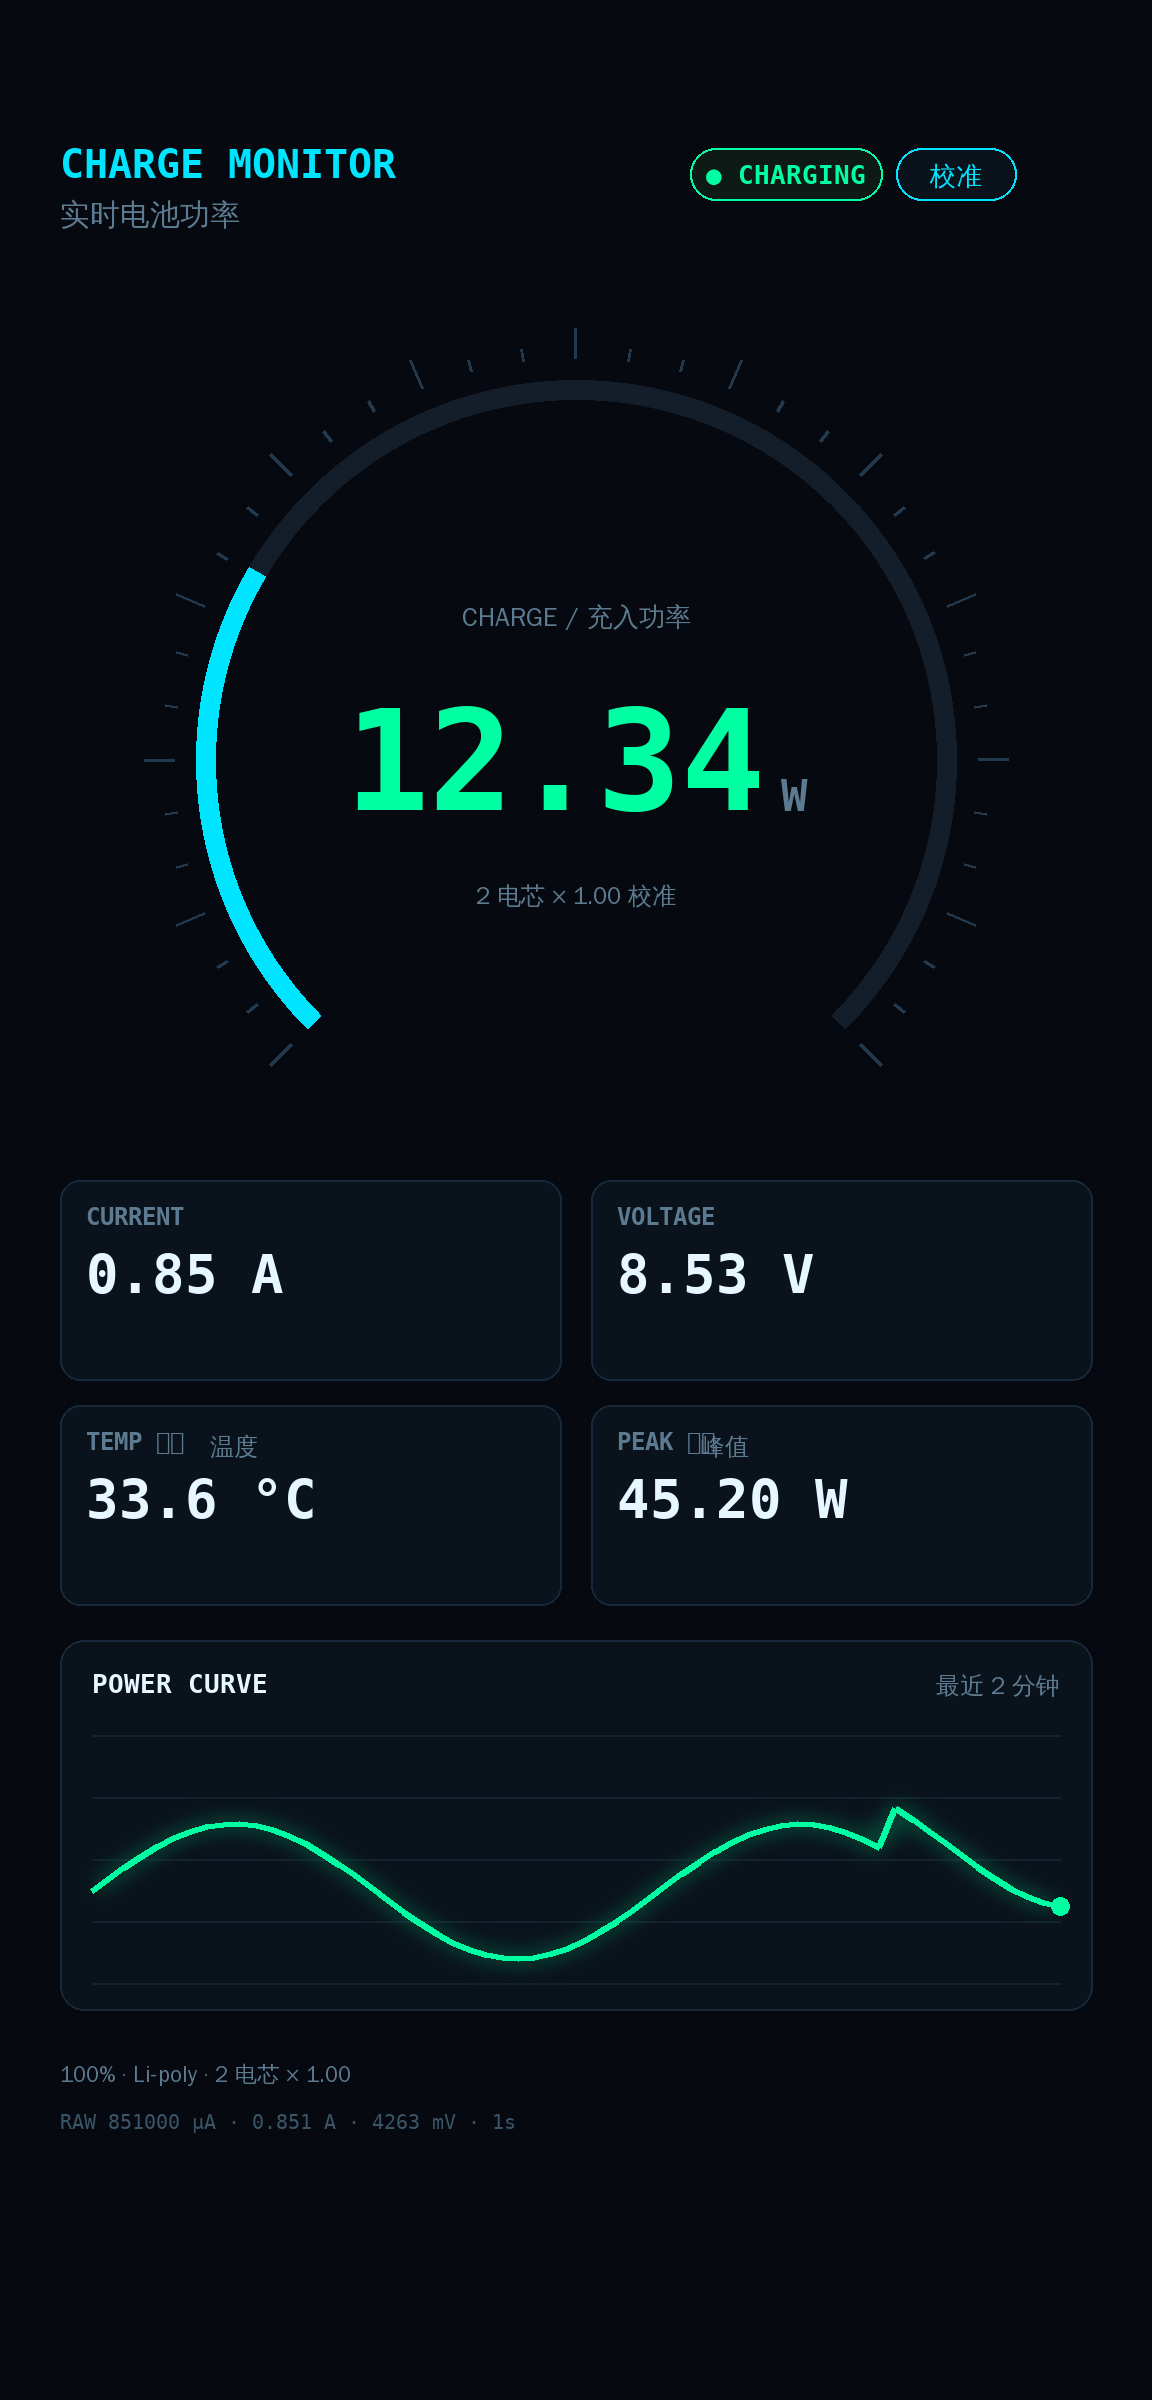
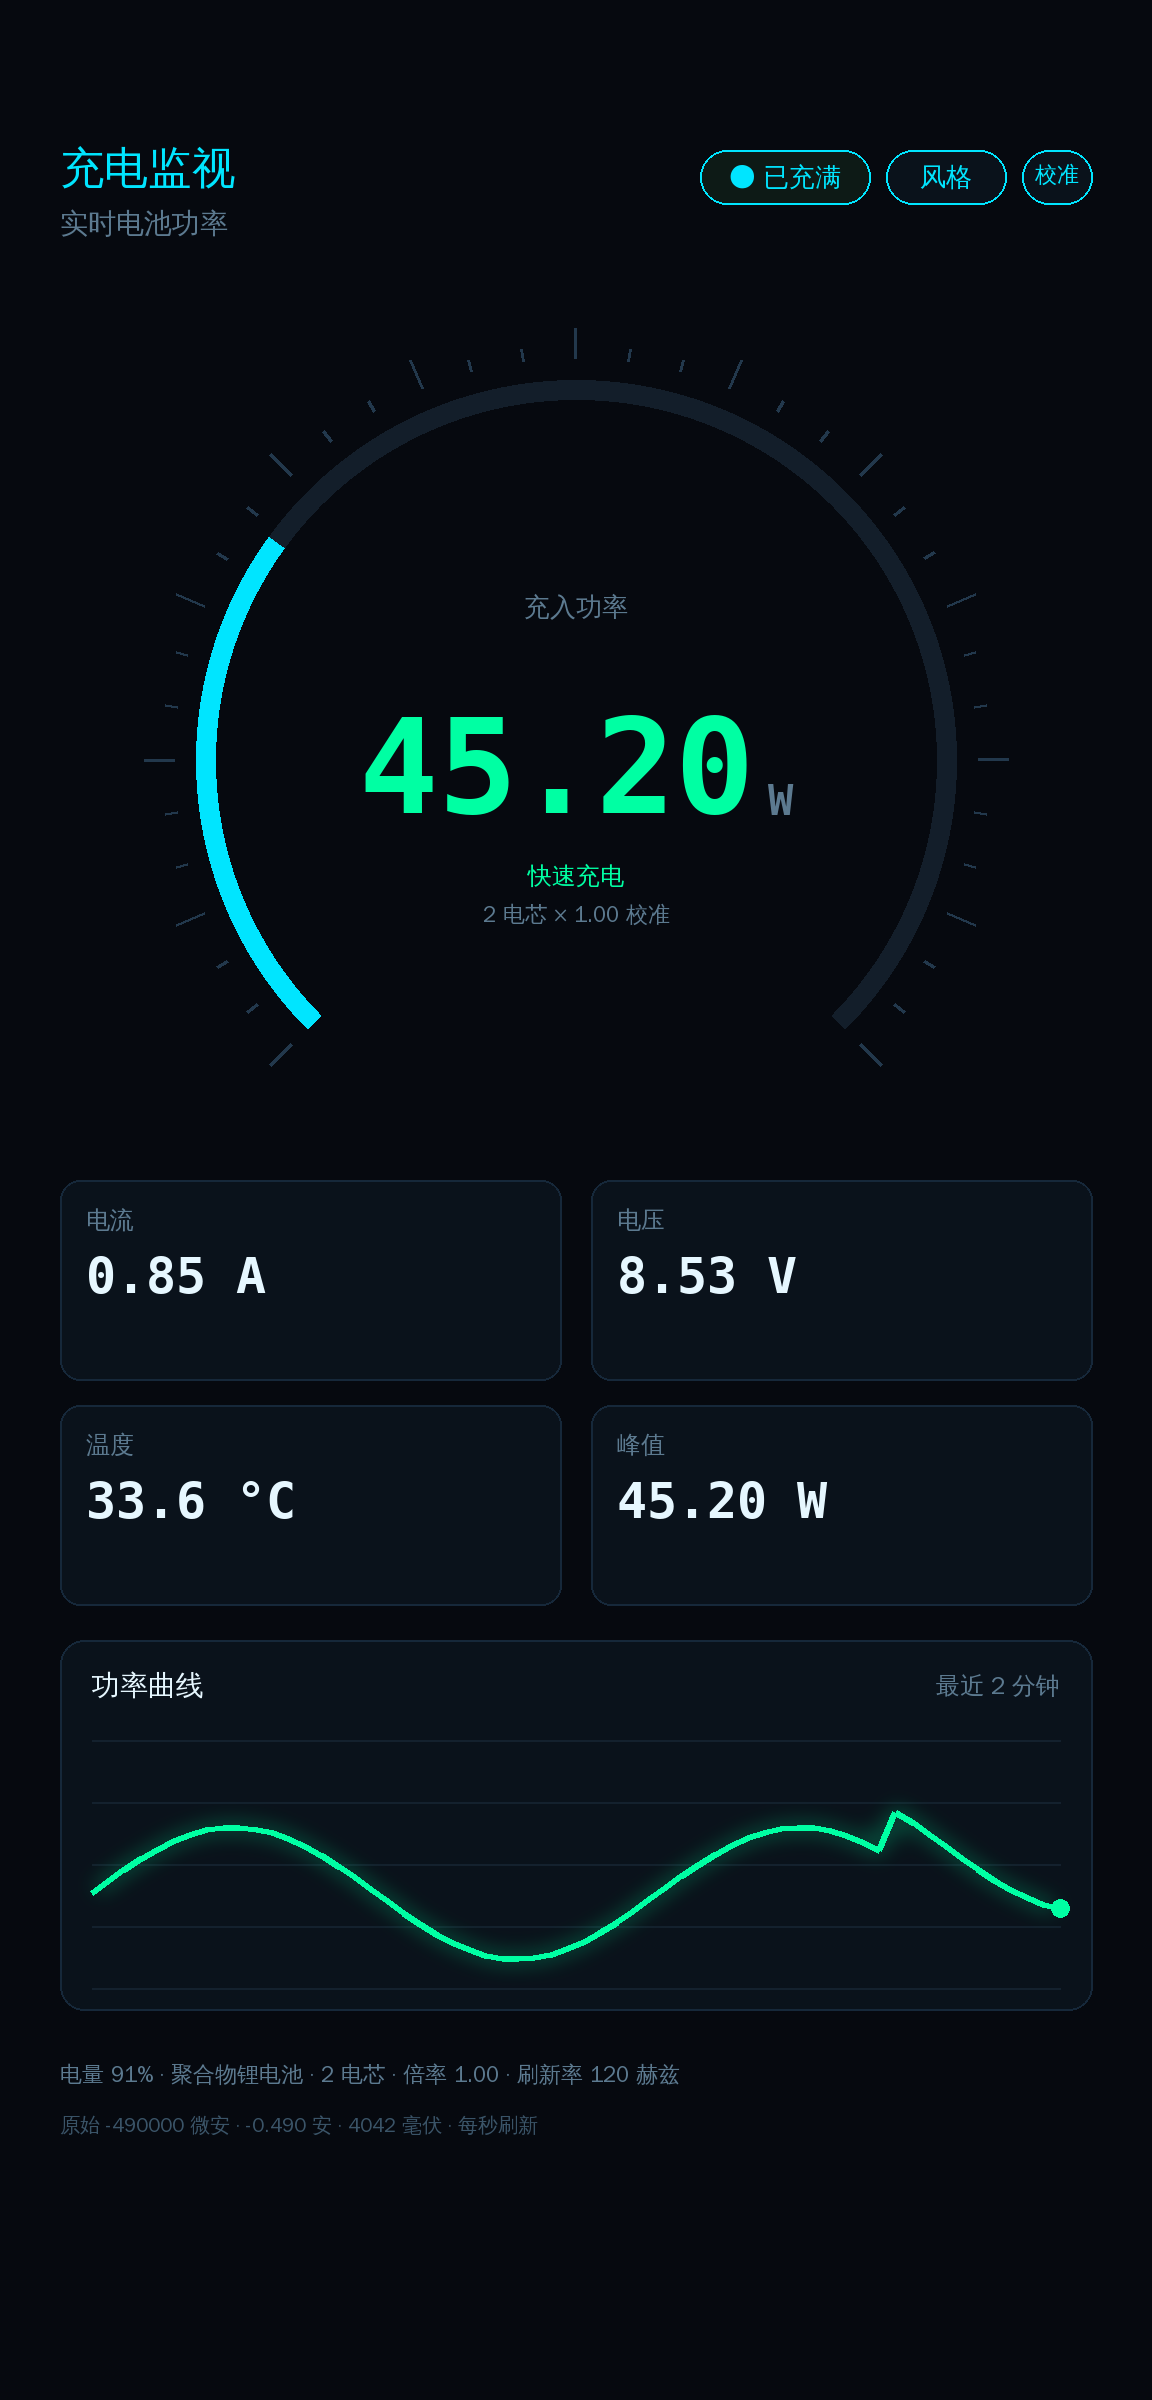
feat(5.1): 界面全中文化，移除帧率显示

diff --git a/src/com/dsh/chargemeter/MainActivity.java b/src/com/dsh/chargemeter/MainActivity.java
@@ -13,7 +13,6 @@ import android.os.BatteryManager;
 import android.os.Build;
 import android.os.Bundle;
 import android.os.Handler;
-import android.os.SystemClock;
 import android.os.Looper;
 import android.text.InputType;
 import android.text.SpannableString;
@@ -22,7 +21,6 @@ import android.text.style.AbsoluteSizeSpan;
 import android.text.style.ForegroundColorSpan;
 import android.text.style.StyleSpan;
 import android.util.TypedValue;
-import android.view.Choreographer;
 import android.view.Display;
 import android.view.Gravity;
 import android.view.View;
@@ -51,9 +49,9 @@ public class MainActivity extends Activity {
     }
 
     static final Theme[] THEMES = {
-            new Theme("HUD 青（科幻）", 0xFF06090F, 0xFF0A121B, 0xFF16283A,
+            new Theme("科幻青", 0xFF06090F, 0xFF0A121B, 0xFF16283A,
                     0xFFE6F7FF, 0xFF5C7A90, 0xFF00E5FF, 0xFF00FFA3, true),
-            new Theme("极简白（苹果）", 0xFFF2F2F7, 0xFFFFFFFF, 0xFFE5E5EA,
+            new Theme("极简白", 0xFFF2F2F7, 0xFFFFFFFF, 0xFFE5E5EA,
                     0xFF1C1C1E, 0xFF8E8E93, 0xFF007AFF, 0xFF34C759, false),
             new Theme("赛博紫", 0xFF0B0614, 0xFF150B23, 0xFF2A1B3D,
                     0xFFF0E6FF, 0xFF8B7BA5, 0xFFB14CFF, 0xFFFF3D9A, true),
@@ -82,7 +80,6 @@ public class MainActivity extends Activity {
     private TextView rawText;
     private TextView factorText;
     private GaugeView gauge;
-    private TextView fpsText;
     private ChartView chart;
 
     private BatteryManager bm;
@@ -94,11 +91,6 @@ public class MainActivity extends Activity {
     private final Handler handler = new Handler(Looper.getMainLooper());
     private final Map<TextView, String> cardLabels = new HashMap<>();
 
-    private Choreographer choreographer;
-    private Choreographer.FrameCallback fpsCallback;
-    private long fpsWindowStart;
-    private int fpsFrames;
-    private double fpsValue;
     private float screenHz;
 
     private final Runnable ticker = new Runnable() {
@@ -148,10 +140,10 @@ public class MainActivity extends Activity {
         LinearLayout titleBox = new LinearLayout(this);
         titleBox.setOrientation(LinearLayout.VERTICAL);
         TextView title = new TextView(this);
-        title.setText("CHARGE MONITOR");
+        title.setText("充电监视");
         title.setTextColor(th.a1);
         title.setTextSize(13);
-        title.setLetterSpacing(0.28f);
+        title.setLetterSpacing(0.08f);
         title.setTypeface(MONO, Typeface.BOLD);
         titleBox.addView(title);
         TextView subtitle = new TextView(this);
@@ -276,13 +268,13 @@ public class MainActivity extends Activity {
 
         // ===== 指标 =====
         LinearLayout grid1 = row();
-        grid1.addView(card("CURRENT 电流", "--"), weight());
-        grid1.addView(card("VOLTAGE 电压", "--"), weight());
+        grid1.addView(card("电流", "--"), weight());
+        grid1.addView(card("电压", "--"), weight());
         root.addView(grid1);
 
         LinearLayout grid2 = row();
-        grid2.addView(card("TEMP 温度", "--"), weight());
-        grid2.addView(card("PEAK 峰值", "--"), weight());
+        grid2.addView(card("温度", "--"), weight());
+        grid2.addView(card("峰值", "--"), weight());
         root.addView(grid2);
 
         // ===== 曲线 =====
@@ -299,20 +291,18 @@ public class MainActivity extends Activity {
         chartHead.setOrientation(LinearLayout.HORIZONTAL);
         chartHead.setGravity(Gravity.CENTER_VERTICAL);
         TextView chartTitle = new TextView(this);
-        chartTitle.setText("POWER CURVE · 2MIN");
+        chartTitle.setText("功率曲线");
         chartTitle.setTextColor(th.text);
         chartTitle.setTextSize(11);
-        chartTitle.setLetterSpacing(0.2f);
+        chartTitle.setLetterSpacing(0.04f);
         chartTitle.setTypeface(MONO, Typeface.BOLD);
         chartHead.addView(chartTitle, new LinearLayout.LayoutParams(0,
                 ViewGroup.LayoutParams.WRAP_CONTENT, 1f));
-        fpsText = new TextView(this);
-        fpsText.setText("-- FPS");
-        fpsText.setTextColor(th.a2);
-        fpsText.setTextSize(11);
-        fpsText.setTypeface(MONO, Typeface.BOLD);
-        fpsText.setLetterSpacing(0.06f);
-        chartHead.addView(fpsText);
+        TextView chartHint = new TextView(this);
+        chartHint.setText("最近 2 分钟");
+        chartHint.setTextColor(th.dim);
+        chartHint.setTextSize(10);
+        chartHead.addView(chartHint);
         chartCard.addView(chartHead);
 
         chart = new ChartView(this);
@@ -348,25 +338,6 @@ public class MainActivity extends Activity {
         } catch (Exception ignored) {
         }
 
-        choreographer = Choreographer.getInstance();
-        fpsCallback = new Choreographer.FrameCallback() {
-            @Override
-            public void doFrame(long frameTimeNanos) {
-                fpsFrames++;
-                long now = SystemClock.uptimeMillis();
-                if (fpsWindowStart == 0) fpsWindowStart = now;
-                long span = now - fpsWindowStart;
-                if (span >= 1000) {
-                    fpsValue = fpsFrames * 1000.0 / span;
-                    fpsFrames = 0;
-                    fpsWindowStart = now;
-                    if (fpsText != null) {
-                        fpsText.setText(String.format("%.0f FPS", fpsValue));
-                    }
-                }
-                choreographer.postFrameCallback(this);
-            }
-        };
     }
 
     private void pickTheme() {
@@ -454,6 +425,16 @@ public class MainActivity extends Activity {
                 .show();
     }
 
+    private String techText(String tech) {
+        if (tech == null || tech.isEmpty()) return "";
+        if (tech.equalsIgnoreCase("Li-ion")) return "锂离子电池";
+        if (tech.equalsIgnoreCase("Li-poly")) return "聚合物锂电池";
+        if (tech.equalsIgnoreCase("LiFe")) return "磷酸铁锂";
+        if (tech.equalsIgnoreCase("NiMH")) return "镍氢电池";
+        if (tech.equalsIgnoreCase("NiCd")) return "镍镉电池";
+        return tech;
+    }
+
     private int recommendedCells() {
         String b = (Build.BRAND + " " + Build.MANUFACTURER + " " + Build.MODEL).toLowerCase();
         if (b.contains("xiaomi") || b.contains("redmi") || b.contains("poco")
@@ -505,7 +486,7 @@ public class MainActivity extends Activity {
         String full = label + "\n" + value;
         SpannableString ss = new SpannableString(full);
         int cut = label.length();
-        ss.setSpan(new AbsoluteSizeSpan(9, true), 0, cut, Spanned.SPAN_EXCLUSIVE_EXCLUSIVE);
+        ss.setSpan(new AbsoluteSizeSpan(10, true), 0, cut, Spanned.SPAN_EXCLUSIVE_EXCLUSIVE);
         ss.setSpan(new ForegroundColorSpan(th.dim), 0, cut, Spanned.SPAN_EXCLUSIVE_EXCLUSIVE);
         ss.setSpan(new StyleSpan(Typeface.BOLD), 0, cut, Spanned.SPAN_EXCLUSIVE_EXCLUSIVE);
         ss.setSpan(new AbsoluteSizeSpan(19, true), cut + 1, full.length(),
@@ -525,20 +506,12 @@ public class MainActivity extends Activity {
     protected void onResume() {
         super.onResume();
         handler.post(ticker);
-        if (choreographer != null && fpsCallback != null) {
-            fpsWindowStart = 0;
-            fpsFrames = 0;
-            choreographer.postFrameCallback(fpsCallback);
-        }
     }
 
     @Override
     protected void onPause() {
         super.onPause();
         handler.removeCallbacks(ticker);
-        if (choreographer != null && fpsCallback != null) {
-            choreographer.removeFrameCallback(fpsCallback);
-        }
     }
 
     private void tick() {
@@ -582,7 +555,7 @@ public class MainActivity extends Activity {
         }
         powerUnit.setTextColor(th.dim);
         if (powerCaption != null) {
-            powerCaption.setText(feeding ? "CHARGE / 充入功率" : "DISCHARGE / 放电功率");
+            powerCaption.setText(feeding ? "充入功率" : "放电功率");
         }
 
         updateCard(currentText, String.format("%.2f A", amps));
@@ -598,29 +571,29 @@ public class MainActivity extends Activity {
         gauge.setRatio(valid ? (float) (watts / gaugeMax) : 0f);
         chart.push(feeding && valid ? (float) watts : 0f);
 
-        levelText.setText((level >= 0 ? level + "%" : "--")
-                + (tech == null || tech.isEmpty() ? "" : " · " + tech)
-                + String.format(" · %d 电芯 × %.2f", cellCount, ratio)
-                + (screenHz > 0 ? String.format(" · %.0f Hz", screenHz) : ""));
+        levelText.setText("电量 " + (level >= 0 ? level + "%" : "--")
+                + (techText(tech).isEmpty() ? "" : " · " + techText(tech))
+                + String.format(" · %d 电芯 · 倍率 %.2f", cellCount, ratio)
+                + (screenHz > 0 ? String.format(" · 刷新率 %.0fHz", screenHz) : ""));
 
         String chip;
         int chipColor;
         if (status == BatteryManager.BATTERY_STATUS_CHARGING && !feeding) {
-            chip = "FULL";
+            chip = "已充满";
             chipColor = th.a1;
         } else if (status == BatteryManager.BATTERY_STATUS_CHARGING) {
-            chip = plugged == BatteryManager.BATTERY_PLUGGED_USB ? "USB"
-                    : plugged == BatteryManager.BATTERY_PLUGGED_AC ? "CHARGING"
-                    : plugged == BatteryManager.BATTERY_PLUGGED_WIRELESS ? "WIRELESS" : "CHARGING";
+            chip = plugged == BatteryManager.BATTERY_PLUGGED_USB ? "数据线充电"
+                    : plugged == BatteryManager.BATTERY_PLUGGED_AC ? "充电中"
+                    : plugged == BatteryManager.BATTERY_PLUGGED_WIRELESS ? "无线充电" : "充电中";
             chipColor = th.a2;
         } else if (status == BatteryManager.BATTERY_STATUS_FULL) {
-            chip = "FULL";
+            chip = "已充满";
             chipColor = th.a1;
         } else if (plugged != 0) {
-            chip = "PLUGGED";
+            chip = "已接电源";
             chipColor = th.a1;
         } else {
-            chip = "IDLE";
+            chip = "未充电";
             chipColor = th.dim;
         }
         stateLabel.setText(chip);
@@ -641,27 +614,27 @@ public class MainActivity extends Activity {
             tier = "";
             tierColor = th.dim;
         } else if (watts < 10) {
-            tier = "TAPER  涓流";
+            tier = "涓流充电";
             tierColor = th.dim;
         } else if (watts < 30) {
-            tier = "STANDARD  标准";
+            tier = "标准充电";
             tierColor = th.a1;
         } else if (watts < 60) {
-            tier = "FAST  快充";
+            tier = "快速充电";
             tierColor = th.a2;
         } else {
-            tier = "TURBO  超快充";
+            tier = "超快充电";
             tierColor = th.a2;
         }
         tierText.setText(tier);
         tierText.setTextColor(tierColor);
 
         if (!currentSupported) {
-            rawText.setText("该机型未开放实时电流（CURRENT_NOW 不可用）");
+            rawText.setText("该机型未开放实时电流");
         } else if (!valid) {
-            rawText.setText(String.format("RAW %d µA · %d mV · 电压上报异常，建议校准", raw, voltageMv));
+            rawText.setText(String.format("原始 %d 微安 · %d 毫伏 · 电压异常，请校准", raw, voltageMv));
         } else {
-            rawText.setText(String.format("RAW %d µA · %.3f A · %d mV · 1s", raw, amps, voltageMv));
+            rawText.setText(String.format("原始 %d 微安 · %.3f 安 · %d 毫伏 · 每秒刷新", raw, amps, voltageMv));
         }
     }
 

diff --git a/README.md b/README.md
@@ -11,9 +11,9 @@
 - **环形仪表**：270° 刻度弧，功率越高弧越长
 - **功率曲线**：最近 2 分钟趋势，霓虹渐变填充
 - **5 套主题**：HUD 青、极简白、赛博紫、终端绿、熔岩橙，一键切换并记住选择
-- **充电等级**：涓流 / 标准 / 快充 / 超快充 自动判定
+- **充电等级**：涓流 / 标准 / 快速 / 超快 自动判定
+- **全中文界面**，单位使用 W / A / V 等标准符号
 - **校准**：电芯数（1~4）与倍率（0.1~10）可调，用来对齐 ROM 自己显示的瓦数
-- **实时 FPS + 屏幕刷新率**：`Choreographer` 逐帧统计，用于确认系统是否满帧
 - 无网络权限、无广告、不收集任何数据
 
 <table>
@@ -91,7 +91,6 @@ adb install -r chargemeter.apk
 ## 已知限制
 
 - 只能读**电池侧**功率，不是充电器输出功率。想看适配器输入功率需要 root 读 `/sys/class/power_supply/primary_chg/*`
-- 帧率是本 App 自身的渲染帧率（能反映系统是否掉到 60 Hz），**无法**监控其它游戏；要做游戏帧率悬浮窗需要系统级权限
 - 100% 满电后电流可能为负（电池在放电供系统），此时标题会变成「放电功率」，属正常现象
 
 ## License
